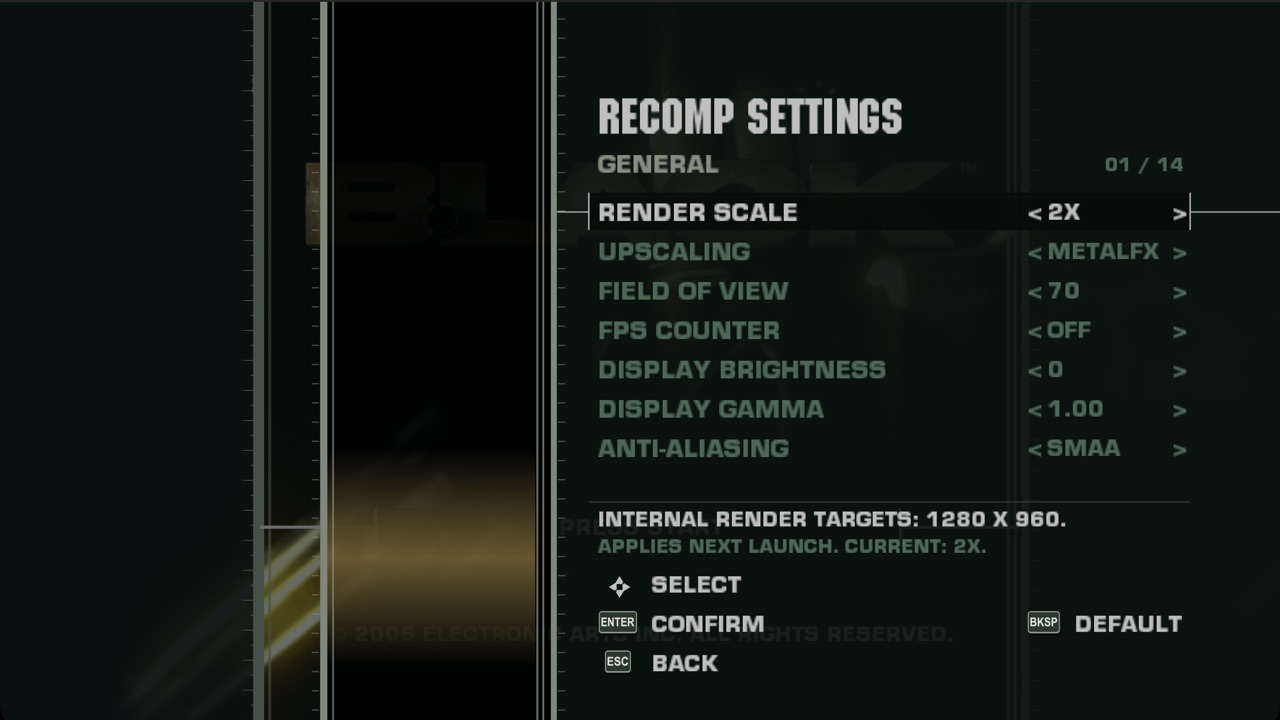
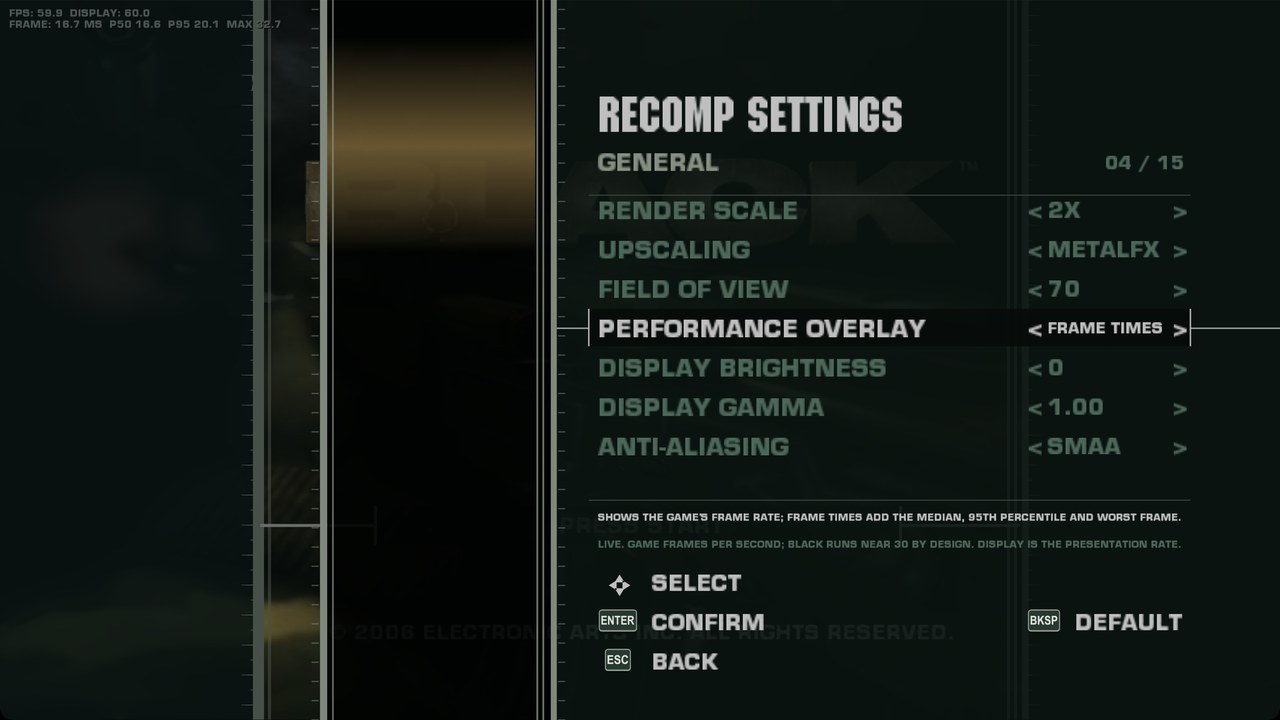
Prepare the 0.9.0 notes, README and screenshots
Release notes for 0.9.0, README highlights for HD Reticle and the Performance Overlay, the sniper row in the Mods table, the Black Box in reporting issues, and three new captures from the game window: frame times in the first mission, the General page with Performance Overlay, and HD Reticle. Version strings stay 0.8.0 until the release build.

diff --git a/README.md b/README.md
@@ -121,7 +121,11 @@ PS2 and Xbox 360 files are not supported.
   It is a nested menu: **General**, **Controls**, **Mods** and **Saves** open
   their pages, Back climbs one level, and the selected item is described under
   the list. Y / Triangle or Backspace resets a setting.
-- An optional **FPS counter** showing the game's own frame rate.
+- An optional **Performance Overlay**: the game's own frame rate and the
+  display's, or frame times as well (median, 95th percentile and worst frame).
+- **HD Reticle**: the game's own HUD texture rebuilt at four times its size, for
+  a sharper aiming dot and crisper small HUD marks. The game still colours the
+  dot; no picture is shipped. Off by default, live.
 - Optional **HD texture replacement** from your own copy of the PCSX2 "BLACK HD
   Reimagined" pack, through portingpete's map: turn on **General →
   Textures** and choose the pack's folder when asked. BLACK checks it and links
@@ -142,6 +146,13 @@ PS2 and Xbox 360 files are not supported.
 - Native fullscreen and Game Mode opt-in. Activation was observed on the test Mac;
   macOS controls it. FPS and controller latency improvements were not measured.
 - Separate installation, settings, saves and per-session logs.
+
+<table>
+  <tr>
+    <td width="50%"><img src="docs/screenshots/performance-overlay.jpg" alt="The first mission by sunlit windows, a pistol in hand; in the corner FPS 30.0, DISPLAY 60.0, FRAME 33.3 MS, P50 33.3, P95 35.2, MAX 35.7"><br><sub>Performance Overlay with frame times, in the first mission.</sub></td>
+    <td width="50%"><img src="docs/screenshots/settings-hd-reticle.jpg" alt="General page with HD Reticle selected and set to HD, under Texture Replacement and HD Texture Size; the description says the aiming dot is rebuilt sharper at 4x from the game's own HUD texture"><br><sub>HD Reticle on the General page.</sub></td>
+  </tr>
+</table>
 
 ## Mods
 
@@ -168,6 +179,7 @@ except **Skip Films with a Button**:
 | Unlocks | Unlock All Missions / Unlock Black Ops Difficulty | Opens every mission and the Black Ops difficulty |
 | Unlocks | M16A2 at Mission Start | The Black Ops reward rifle as your starting weapon |
 | Unlocks | M249 in the First Mission | The developers' code, the same as a `XXXX-XXXX-XXXX-XXXX` profile name: an M249 with 600 rounds instead of the first mission's rifle; the gun has no texture there |
+| Unlocks | Sniper in the First Mission | The sniper rifle in your second slot when the first mission starts, with five magazines; the mission's own first weapon stays, and a checkpoint keeps the weapons it saved |
 
 Rapid Fire, One-Hit Kill, No Recoil, Game Speed and the stronger God Mode
 come from [TGP482/BLACK-XBERecomp#141](https://github.com/TGP482/BLACK-XBERecomp/pull/141)
@@ -214,7 +226,7 @@ after you answer YES there.
 
 <table>
   <tr>
-    <td width="50%"><img src="docs/screenshots/settings-recomp.jpg" alt="General page: render scale, MetalFX, field of view, FPS counter, display brightness and gamma, SMAA; the description and the Select, Confirm, Default and Back prompts below"><br><sub>Recomp Settings: scale, upscaling, FOV, FPS counter.</sub></td>
+    <td width="50%"><img src="docs/screenshots/settings-recomp.jpg" alt="General page: render scale 2X, MetalFX, field of view 70, Performance Overlay set to Frame Times and selected, display brightness and gamma, SMAA; the description and the Select, Confirm, Default and Back prompts below"><br><sub>Recomp Settings: scale, upscaling, FOV, Performance Overlay.</sub></td>
     <td width="50%"><img src="docs/screenshots/settings-controller.jpg" alt="Gamepad and Vibration subpage: independent X/Y response, aiming and vibration"><br><sub>Gamepad response on its own page.</sub></td>
   </tr>
 </table>
@@ -363,7 +375,11 @@ features do not describe this Mac build. [Upstream README](docs/UPSTREAM_README.
 
 Include the version, Mac model, macOS version, settings and reproduction steps
 when reporting a problem. Distinguish a normal exit from a time limit.
-Do not attach game data, private saves or unredacted personal information.
+For a controls problem, **Controls → Gamepad and Vibration → Advanced Gamepad →
+Controller Diagnostics → Save Black Box** writes the last minute of input the
+game saw, with a copy of your settings, as `black-box-<date>.csv` beside the
+settings file; attach it. Do not attach game data, private saves or unredacted
+personal information.
 
 ## Acknowledgements
 

diff --git a/docs/releases/v0.9.0.md b/docs/releases/v0.9.0.md
@@ -1,0 +1,76 @@
+# BLACK 0.9.0: HD Reticle, frame times and a sniper in the first mission
+
+An experimental native macOS update of **BLACK for Original Xbox** for Apple
+Silicon. Bring your own supported USA or European disc image; no game data is
+included.
+
+## Added
+
+- **HD Reticle.** General → HD Reticle rebuilds the game's own HUD texture at
+  four times its size: a sharper aiming dot and crisper small HUD marks, such
+  as the damage marks at the frame's edges. It is made from your game's own
+  texture, so no picture is shipped. The game still colours the dot: white,
+  green on an ally, red on an enemy, black on a destructible object. It works
+  with or without the HD texture pack. Off by default; changes live.
+- **Performance Overlay.** The FPS Counter row becomes Performance Overlay:
+  off, the game's frame rate with the display's beside it, or frame times as
+  well (the median, 95th percentile and worst frame of the last moments). A
+  saved FPS Counter setting keeps its meaning.
+- **Black Box.** BLACK keeps the last minute of controller input the game
+  actually saw. Controls → Gamepad and Vibration → Advanced Gamepad →
+  Controller Diagnostics → **Save Black Box** writes it beside the settings as
+  a CSV file headed by a copy of your settings, to attach to a report about
+  the controls.
+- **Sniper in the First Mission.** A Mods row puts the sniper rifle in your
+  second slot when the first mission starts, with five magazines. The
+  mission's own first weapon stays, and its scope and ammunition are the
+  game's own. Off by default.
+
+## Changed
+
+- **Lower CPU use.** BLACK's graphics thread now waits instead of spinning:
+  in a mission the app used about 30-56 % of a core's time instead of about
+  116 %, at the same 30 frames per second.
+- **Settings.** A long path at the top of a sub-page folds its first steps
+  instead of running under the controller status; on Controller Diagnostics
+  the values no longer overlap the stick monitor.
+
+Everything from 0.8.0 remains. Settings, saves and checkpoints carry over.
+
+## Install or update
+
+Download **`BLACK-0.9.0-macos-arm64.dmg`**, drag **BLACK.app** to **Applications**
+and replace the old app. Existing Library game data, settings and saves remain
+in place. When the game first reads your profile, BLACK backs it up if it changed since the last backup.
+
+**Requirements:** Apple Silicon and **macOS 27 or later**. The app is **ad-hoc
+signed, not notarized**. If macOS blocks it, check the source and use
+**System Settings → Privacy & Security → Open Anyway**.
+
+## Validation and limits
+
+On **Apple M1 Pro / macOS 27.0.1**, in bounded mission runs from the
+developer's own saves: HD Reticle at render scales 2 and 4, with SMAA and FXAA
+and with the HD pack, kept 30 frames per second against the original texture,
+and the developer saw the dot's four colours and switched it live (before
+the texture became shared; the live switch was not repeated after); a fresh
+first mission gave the sniper, and Continue Mission from a checkpoint kept the
+checkpoint's weapons; the overlay and the Black Box were checked in the
+settings and in missions, and a saved Black Box played back reached the same
+checkpoint. **127 CTest checks** and **49 Python tests** passed. Not checked:
+the rings and crosses that share the HUD texture, seen in motion; the pause
+menu's Restart and F9 with the sniper; Steam Deck.
+[Validation](https://github.com/secretpray/Black/blob/v0.9.0/docs/VALIDATION.md).
+
+## Downloads
+
+- **`BLACK-0.9.0-macos-arm64.dmg`** — the app.
+- **`optional-library-sources.tar.xz`** — matching runtime/game-host/DSP sources,
+  local overlays, library source archives and relinking recipes.
+- **`SHA256SUMS`** — download integrity checks.
+
+No ISO, original XBE, game assets, generated game C, texture pack, private saves
+or session logs are included. [Acknowledgements](https://github.com/secretpray/Black#acknowledgements).
+
+This non-commercial fan project is unaffiliated with Electronic Arts, Criterion
+Games, Microsoft or Apple. Original game content belongs to its owners.
